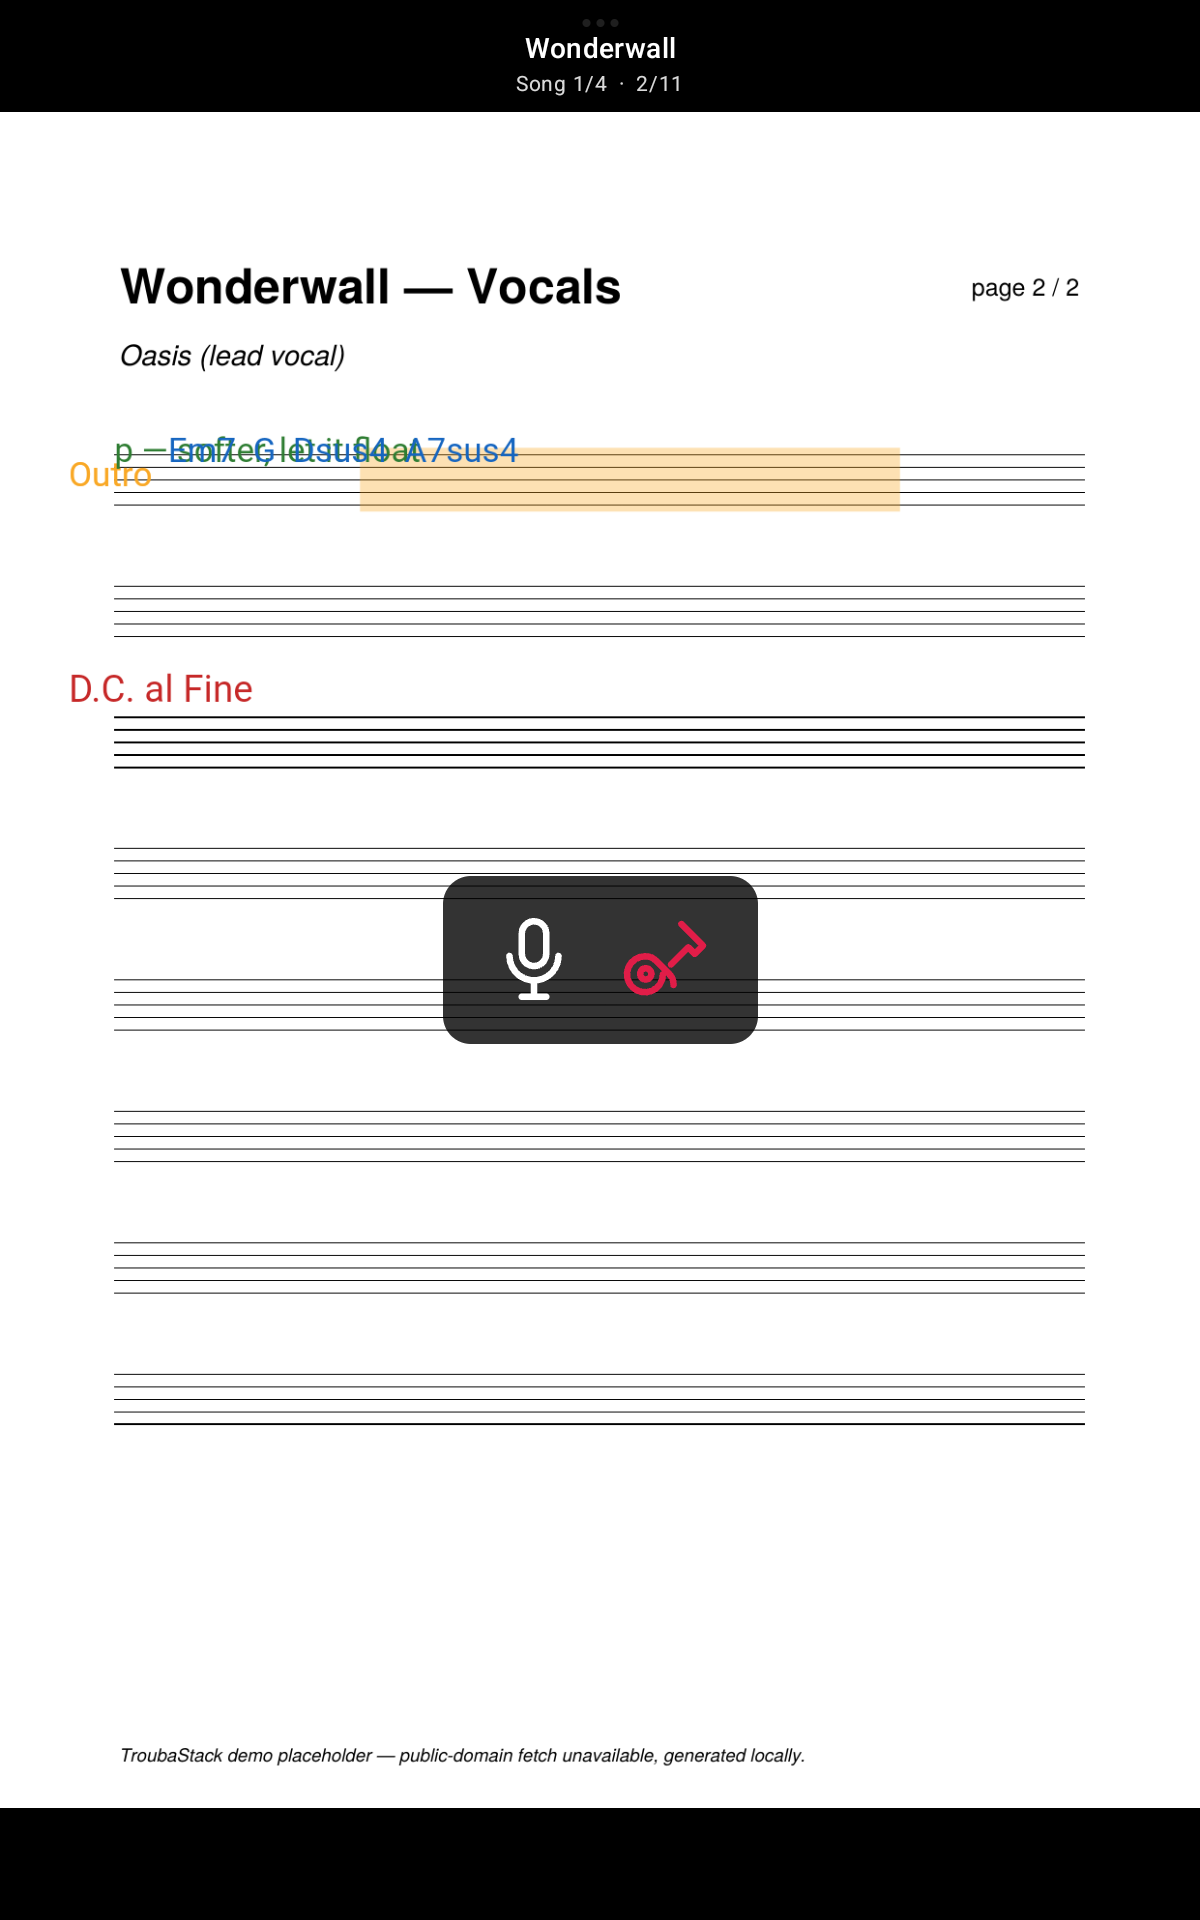
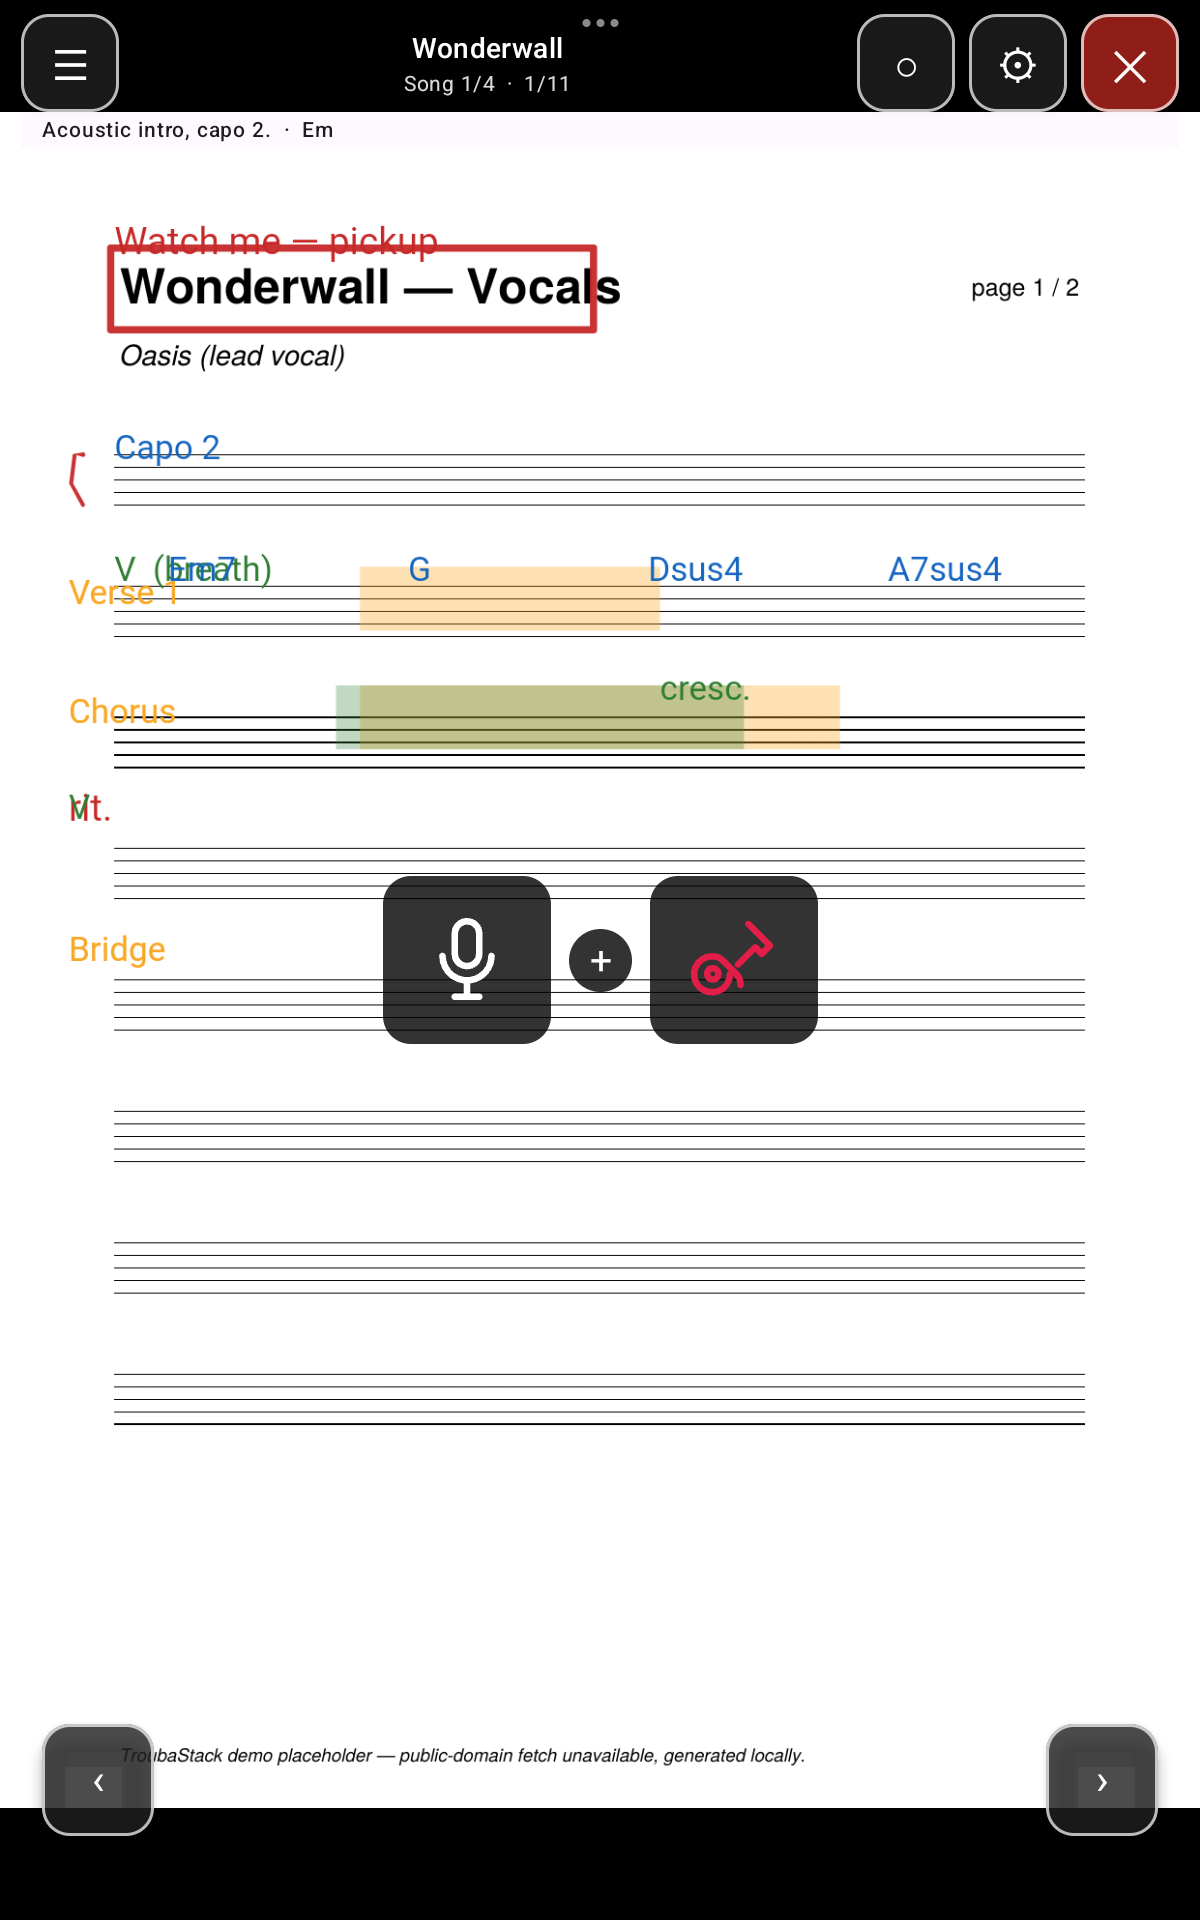
app(A23): cue-flash polish — per-cue squares + "+" separator, flash on first-song entry
VLL device feedback on the A20 cue flash:
- Per-cue SQUARES, not one rectangle: each cue is its own square tile so it reads at a glance
  as N distinct things to prepare ("mic AND red guitar" = two tiles, not one blob).
- A "+" between tiles (VLL: "put a + in the middle") reinforces that BOTH are needed. It sits
  on its own small dark chip so it reads on the white page AND the night-black canvas (a bare
  white "+" in the gap vanished on the white score — the N5 lesson).
- Flash on the FIRST song too (VLL: "are the first song's cues displayed on entering?"). The
  flash now fires on EVERY song entry incl. the initial concert entry (lastCueSong seeded to -1;
  cueIsEntry marks the initial run so the TITLE card is suppressed on entry — chrome already
  shows the title and entry isn't a boundary cross — while the CUE squares still flash). The
  center cues show regardless of chrome (they duplicate nothing there); the title card stays
  cross-only + chrome-gated as before.

:shared:check green. Device-verified on the Redmi: opening the concert flashes song 1's cues
(mic + red guitar as two squares with a "+"); docs/screenshots/a20-cue-flash.png refreshed.

Approved: 2026-07-17 A23 GATE REVIEW 9e7bf28 — GO TO LAND (VLL-directed cue-flash polish: squares + + chip + first-song entry; entry-semantics disambiguation correct; :shared:check + device verified).

diff --git a/app/shared/src/commonMain/kotlin/com/troubashare/shared/stage/StageScreen.kt b/app/shared/src/commonMain/kotlin/com/troubashare/shared/stage/StageScreen.kt
@@ -213,16 +213,19 @@ private fun Performing(
     // [cueEpoch]; a single timeout keyed on the epoch restarts on every trigger (rapid pedal-at-the-wall
     // keeps one cue, refreshed, then one fade). blockedForward is retained across the fade so the glyph
     // renders the right direction while it fades out.
-    var boundaryCueVisible by remember { mutableStateOf(false) } // N1: title/position card
+    var boundaryCueVisible by remember { mutableStateOf(false) } // N1/A20: song-entry flash is up
     var blockedCueVisible by remember { mutableStateOf(false) }  // N7: end/start glyph
     var blockedForward by remember { mutableStateOf(true) }      // N7: last blocked direction (for the fade)
+    var cueIsEntry by remember { mutableStateOf(false) }         // A20: this flash is the INITIAL concert entry
     var cueEpoch by remember { mutableStateOf(0) }
-    // N1: continuous advance is a performance requirement (pedal users can't stop at every song end), but
-    // crossing a song boundary must READ as crossing — flash the title/position card. currentSong only
-    // changes on a boundary cross (any mode); the first composition seeds lastCueSong so entry is quiet.
-    var lastCueSong by remember { mutableStateOf(state.currentSong) }
+    // N1/A20: flash on EVERY song entry, including the first — so opening concert mode shows the first
+    // song's cues too (A20; VLL). lastCueSong seeded to -1 so the first run (song 0) fires; cueIsEntry
+    // marks that initial run so the TITLE card is suppressed on entry (chrome already shows the title,
+    // and entry isn't a boundary CROSS) while the CUE squares still flash. A cross clears any blocked cue.
+    var lastCueSong by remember { mutableStateOf(-1) }
     LaunchedEffect(state.currentSong) {
         if (state.currentSong != lastCueSong) {
+            cueIsEntry = (lastCueSong == -1)
             lastCueSong = state.currentSong
             boundaryCueVisible = true; blockedCueVisible = false; cueEpoch++
         }
@@ -466,23 +469,25 @@ private fun Performing(
             }
         }
 
-        // N1 + A20: the song-entry cue — ONE overlay, ONE timeout. The title/position card flashes at
-        // top (N1, so continuous advance announces the new song), and when the entered song has personal
-        // cues (A20) they flash LARGE in the center ("mic + red guitar" = what to prepare). Suppressed
-        // while full chrome is up (which already shows the title), so they never stack. No cues → just
-        // the N1 card, unchanged.
+        // N1 + A20: the song-entry cue — ONE overlay, ONE timeout. On a CROSS the title/position card
+        // flashes at top (N1) — but not while full chrome is up (it already shows the title) nor on the
+        // initial concert entry (that's not a boundary cross). The entered song's personal cues (A20)
+        // flash LARGE in the center on EVERY entry, including the first (so opening the concert shows
+        // "mic + red guitar" for song 1) — regardless of chrome, since they duplicate nothing there.
         AnimatedVisibility(
-            visible = boundaryCueVisible && !chromeVisible,
+            visible = boundaryCueVisible,
             enter = fadeIn(tween(200)),
             exit = fadeOut(tween(400)),
             modifier = Modifier.fillMaxSize(),
         ) {
             Box(Modifier.fillMaxSize()) {
-                Box(Modifier.align(Alignment.TopCenter).fillMaxWidth().statusBarsPadding().padding(horizontal = 12.dp, vertical = 8.dp), contentAlignment = Alignment.TopCenter) {
-                    TitleCard(
-                        title = state.songs.getOrNull(state.currentSong)?.name ?: "",
-                        position = stagePositionLabel(state, topPage, twoUp),
-                    )
+                if (!cueIsEntry && !chromeVisible) {
+                    Box(Modifier.align(Alignment.TopCenter).fillMaxWidth().statusBarsPadding().padding(horizontal = 12.dp, vertical = 8.dp), contentAlignment = Alignment.TopCenter) {
+                        TitleCard(
+                            title = state.songs.getOrNull(state.currentSong)?.name ?: "",
+                            position = stagePositionLabel(state, topPage, twoUp),
+                        )
+                    }
                 }
                 state.songs.getOrNull(state.currentSong)?.cues?.takeIf { it.isNotEmpty() }?.let { cues ->
                     CueFlashCard(cues, Modifier.align(Alignment.Center))
@@ -603,13 +608,25 @@ private fun BlockedTurnGlyph(forward: Boolean) {
  *  the chrome). Rides the N1 overlay (one visibility, one timeout). */
 @Composable
 private fun CueFlashCard(cues: List<SongCue>, modifier: Modifier = Modifier) {
-    Surface(modifier, color = Color(0xCC000000), shape = MaterialTheme.shapes.large) {
-        Row(
-            Modifier.padding(horizontal = 24.dp, vertical = 20.dp),
-            horizontalArrangement = Arrangement.spacedBy(20.dp),
-            verticalAlignment = Alignment.CenterVertically,
-        ) {
-            cues.forEach { cue -> CueGlyphIcon(cue.icon, parseCueColor(cue.color, Color.White), size = 56.dp) }
+    // Each cue is its OWN square tile (not one shared rectangle), so it reads at a glance as N
+    // distinct things to prepare — "mic AND red guitar" = two tiles, not one blob. A "+" between
+    // tiles reinforces that BOTH are needed (not a choice).
+    Row(modifier, horizontalArrangement = Arrangement.spacedBy(10.dp), verticalAlignment = Alignment.CenterVertically) {
+        cues.forEachIndexed { i, cue ->
+            if (i > 0) {
+                // "+" on its own small dark chip so it reads on BOTH the white page and the night-black
+                // canvas (a bare white "+" in the gap vanished on the white score — the N5 lesson).
+                Surface(color = Color(0xCC000000), shape = CircleShape) {
+                    Box(Modifier.size(36.dp), contentAlignment = Alignment.Center) {
+                        Text("+", color = Color.White, style = MaterialTheme.typography.titleLarge)
+                    }
+                }
+            }
+            Surface(color = Color(0xCC000000), shape = MaterialTheme.shapes.large) {
+                Box(Modifier.size(96.dp), contentAlignment = Alignment.Center) {
+                    CueGlyphIcon(cue.icon, parseCueColor(cue.color, Color.White), size = 56.dp)
+                }
+            }
         }
     }
 }
